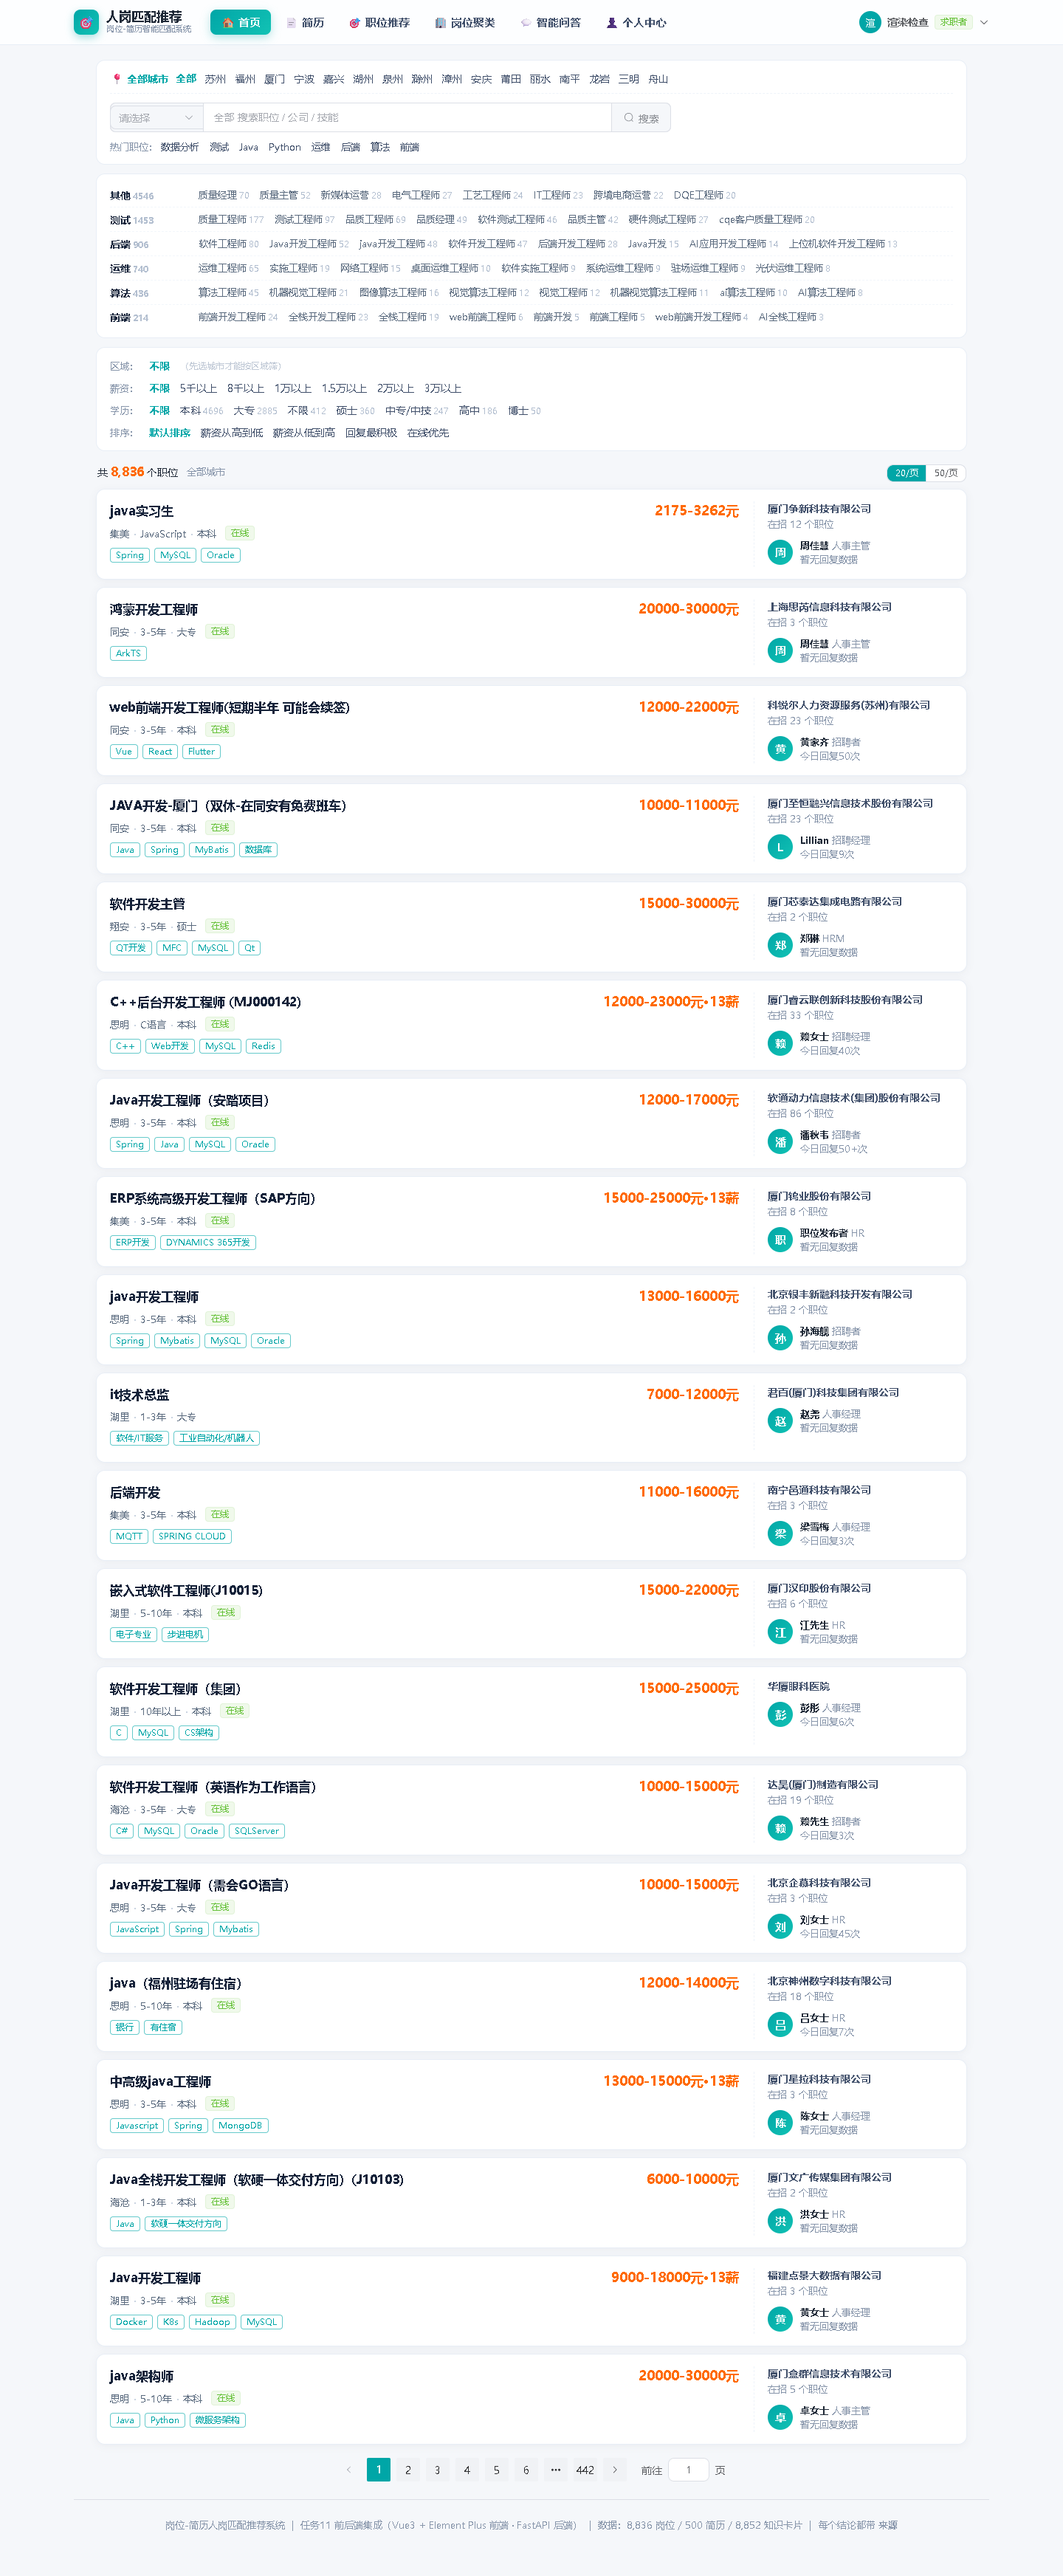
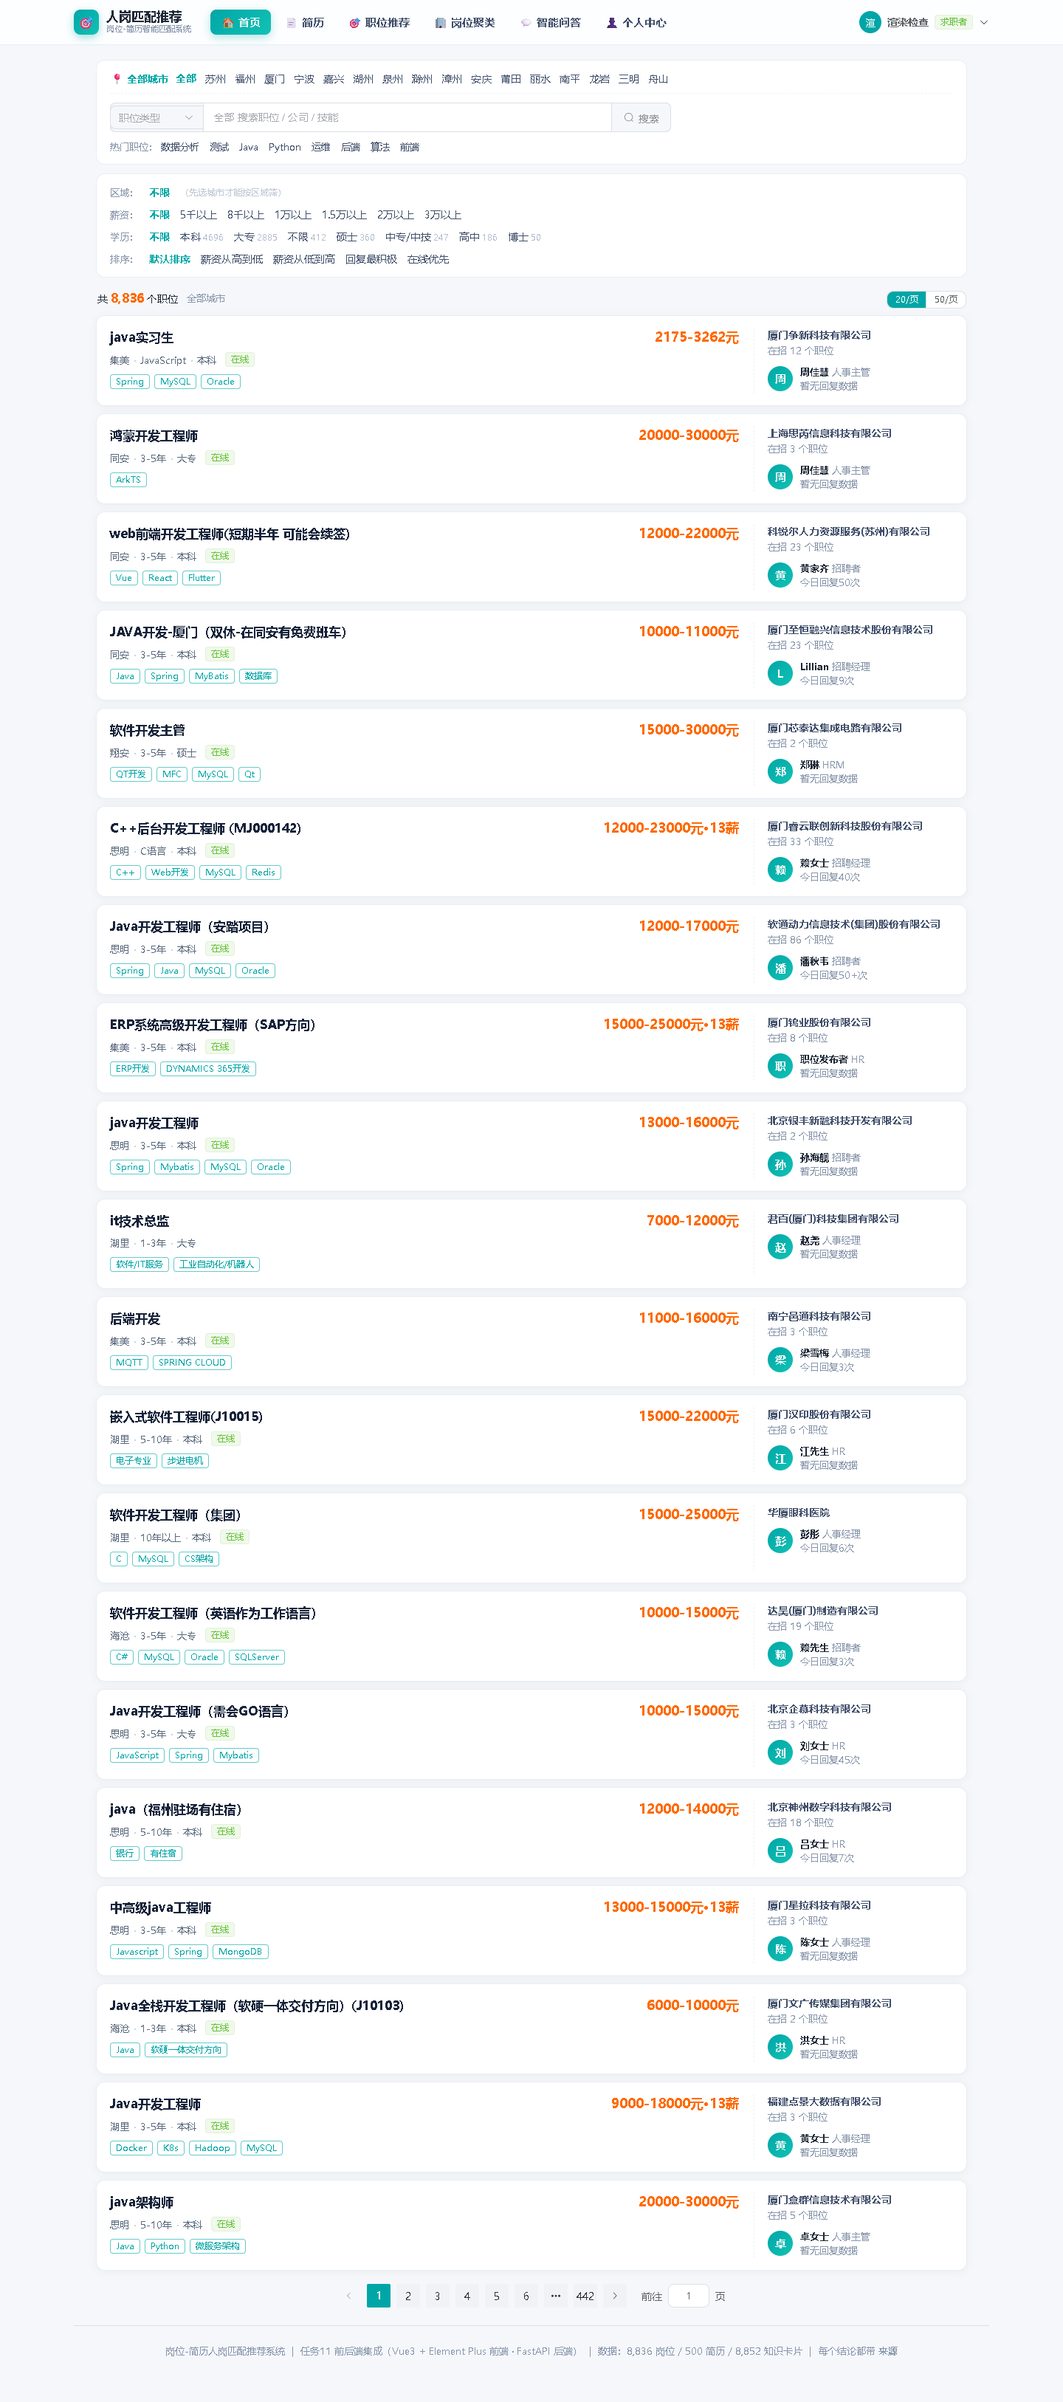
任务11: 首页删除「职位分类导航」面板（与搜索框职位类型下拉能力重复、占屏过大），同步系统设计文档 v1.5

diff --git a/web/src/views/HomeView.vue b/web/src/views/HomeView.vue
@@ -31,21 +31,7 @@
       </div>
     </div>
 
-    <!-- ② 职位分类导航（分组面板） -->
-    <div class="catpanel">
-      <div v-for="g in st.分类导航.slice(0, 6)" :key="g.大类" class="row">
-        <div class="cat">
-          <a :class="{ on: category === g.大类 }" @click="pickCat(g.大类)">
-            {{ g.大类 }}<em>{{ g.数量 }}</em></a>
-        </div>
-        <div class="subs">
-          <a v-for="s in g.子职位" :key="s.名称" @click="kw = s.名称; category = ''; search()">
-            {{ s.名称 }}<em>{{ s.数量 }}</em></a>
-        </div>
-      </div>
-    </div>
-
-    <!-- ③ 筛选栏 -->
+    <!-- ② 筛选栏 -->
     <div class="filters">
       <div class="frow">
         <span class="flb">区域：</span>
@@ -73,7 +59,7 @@
       </div>
     </div>
 
-    <!-- ④ 结果统计 -->
+    <!-- ③ 结果统计 -->
     <div class="resultbar">
       <span>共 <b class="num">{{ fmt(list.总数) }}</b> 个职位</span>
       <span class="muted">{{ city || '全部城市' }}{{ district ? ' · ' + district : '' }}{{ category ? ' · ' + category : '' }}{{ kw ? ' · ' + kw : '' }}</span>
@@ -85,7 +71,7 @@
       </span>
     </div>
 
-    <!-- ⑤ 职位列表（左：职位 / 右：公司 + 招聘者） -->
+    <!-- ④ 职位列表（左：职位 / 右：公司 + 招聘者） -->
     <div v-loading="loading" class="joblist">
       <div v-for="j in list.岗位" :key="j.岗位ID" class="jcard" @click="open(j)">
         <div class="left">
@@ -125,7 +111,7 @@
                    :total="list.总数" :page-size="size" :current-page="page"
                    class="pager" @current-change="turn" />
 
-    <!-- ⑥ 职位详情抽屉 -->
+    <!-- ⑤ 职位详情抽屉 -->
     <el-drawer v-model="drawer" size="46%" :title="cur?.岗位名称 || ''">
       <template v-if="cur">
         <div class="dt1">
@@ -251,10 +237,6 @@ function pickCity(c: string) {
   district.value = ''
   search()
 }
-function pickCat(c: string) {
-  category.value = category.value === c ? '' : c
-  search()
-}
 function setDistrict(d: string) { district.value = d; search() }
 function setSalary(v: number) { salaryMin.value = salaryMin.value === v ? 0 : v; search() }
 function setEdu(e: string) { edu.value = edu.value === e ? '' : e; search() }
@@ -314,18 +296,8 @@ onMounted(async () => {
 .hot a { color: #41506b; margin-right: 14px; cursor: pointer; }
 .hot a:hover { color: var(--el-color-primary); }
 
-/* ---------- 分类面板 ---------- */
-.catpanel { background: #fff; border: 1px solid var(--zq-border); border-radius: 12px;
-  padding: 12px 18px; margin-top: 12px; }
-.catpanel .row { display: flex; padding: 6px 0; border-bottom: 1px dashed #f2f6fb; }
-.catpanel .row:last-child { border-bottom: none; }
-.catpanel .cat { width: 120px; flex: none; }
-.catpanel .cat a { font-weight: 700; color: #16233a; cursor: pointer; font-size: 14px; }
-.catpanel .cat a.on { color: var(--el-color-primary); }
-.catpanel .subs { display: flex; flex-wrap: wrap; gap: 4px 14px; flex: 1; }
-.catpanel .subs a { color: #5b6b7f; font-size: 13px; cursor: pointer; }
-.catpanel .subs a:hover { color: var(--el-color-primary); }
-.catpanel em, .filters em { font-style: normal; color: #b3bfd0; font-size: 11.5px; margin-left: 3px; }
+/* ---------- 筛选栏 ---------- */
+.filters em { font-style: normal; color: #b3bfd0; font-size: 11.5px; margin-left: 3px; }
 
 /* ---------- 筛选栏 ---------- */
 .filters { background: #fff; border: 1px solid var(--zq-border); border-radius: 12px;

diff --git a/docs/系统设计文档.md b/docs/系统设计文档.md
@@ -63,7 +63,7 @@
 | 特征构造 | `src/api/score_features.py` | 单对(简历,岗位) 36 维特征 + 模型推理（**任务5 模型的在线入口**） |
 | **存储层** | `src/api/db.py` | **SQLite**：用户/会话/简历/收藏/匹配历史/问答记录；口令 PBKDF2 加盐哈希 |
 | 前端 A（保底） | `src/web/app.py` | Streamlit：顶部导航 + 弹出层登录注册；五个页面；纯 HTTP 客户端 |
-| 前端 B（主秀） | `web/` | **Vue3 + Element Plus + ECharts**：Vite 构建、路由守卫、Pinia 状态、axios 拦截器；六个页面（**首页岗位列表**/简历/职位推荐/聚类/问答/个人中心）；同样**只走 HTTP**。**首页仿 BOSS直聘 城市职位列表**：顶部城市切换 + 搜索（职位类型下拉）+ 热门职位 → 职位分类导航面板（大类→子职位）→ 横排筛选（区域/薪资/学历/排序）→ 职位卡（左：职位名+橙色薪资+区县·经验·学历+技能标签；右：公司+在招数+**招聘者头像/姓名/职位/回复活跃度**）→ 分页 + 详情抽屉 |
+| 前端 B（主秀） | `web/` | **Vue3 + Element Plus + ECharts**：Vite 构建、路由守卫、Pinia 状态、axios 拦截器；六个页面（**首页岗位列表**/简历/职位推荐/聚类/问答/个人中心）；同样**只走 HTTP**。**首页仿 BOSS直聘 城市职位列表**：顶部城市切换 + 搜索（**「职位类型」下拉即岗位大类筛选**）+ 热门职位 → 横排筛选（区域/薪资/学历/排序）→ 职位卡（左：职位名+橙色薪资+区县·经验·学历+技能标签；右：公司+在招数+**招聘者头像/姓名/职位/回复活跃度**）→ 分页 + 详情抽屉 |
 | 前端主题 | `.streamlit/config.toml` | 主色/背景/字体（官方主题机制，比注入 CSS 更稳） |
 | 一键脚本 | `scripts/run_api.ps1`、`scripts/run_web.ps1` | 启后端 / 启前端 |
 | 接口测试 | `tests/test_api.py`、`tests/test_auth.py`、`tests/test_web.py`、`tests/conftest.py` | 正常/边界/异常三条路径（后端 71 项 + 前端 10 项） |
@@ -169,7 +169,12 @@ POST /api/match         →  传 resume_id
 - 工具轨迹逐步可审计（工具名 + 参数 + 结果摘要 + 来源）
 - **依赖外网**：失败返回 502 并提示检查 `.env` 的 `DEEPSEEK_API_KEY`
 
-> **首页（岗位浏览）接口补充**：`GET /api/jobs` 支持 `city` / **`district`（区县）** / `category` / `keyword` / `salary_min` / `edu` / `cluster` / `sort`；`GET /api/jobs/stats` 另返回 **`热门搜索`（来自「来源关键词」列）/ `按城市区县`（区域筛选索引）/ `分类导航`（大类→高频子职位）**，以及「招聘者」相关字段（`招聘者` / `招聘者职位` / `在线状态` / `回复文案` / `同公司岗位数`）——这些字段全部来自真实抓取数据，用于模拟 BOSS直聘 的「招聘者行」与「区域/热门职位/分类导航」筛选。
+> **首页（岗位浏览）接口补充**：`GET /api/jobs` 支持 `city` / **`district`（区县）** / `category` / `keyword` / `salary_min` / `edu` / `cluster` / `sort`；`GET /api/jobs/stats` 另返回 **`热门搜索`（来自「来源关键词」列）/ `按城市区县`（区域筛选索引）/ `分类导航`（大类→高频子职位）**，以及「招聘者」相关字段（`招聘者` / `招聘者职位` / `在线状态` / `回复文案` / `同公司岗位数`）——这些字段全部来自真实抓取数据，用于模拟 BOSS直聘 的「招聘者行」与「区域 / 热门职位」筛选。
+
+> **`分类导航` 的当前用法**：该索引（大类 → 高频子职位，仅保留数量 ≥3 的子职位）**只用于填充首页搜索框的「职位类型」下拉（大类级别）**。
+> 首页原先在筛选栏之上另有一块「职位分类导航面板」（左侧大类 + 右侧该大类全部子职位链接），已在 v1.5 按使用者反馈**整块删除**：
+> 该面板占屏高较大，而搜索框下拉已覆盖同一筛选能力，删掉后首页动线收紧为「城市 → 搜索 → 筛选 → 职位列表」。
+> **后端未改**，`/api/jobs/stats` 仍返回 `分类导航`，保留给后续「点击大类直查」等交互复用。
 
 ### 3.7 ⑥ 用户体系：注册 / 登录 / 鉴权
 
@@ -316,7 +321,8 @@ pytest -q    # 81 passed
 
 ---
 
-> 文档版本：v1.4（2026-09-16，**首页仿 BOSS直聘 城市职位列表改造**：新增区县/招聘者/回复活跃度/热门职位/分类导航等真实数据字段与筛选，`/api/jobs` 增 `district` 参数、`/api/jobs/stats` 增三类索引；测试 116 项全绿；
+> 文档版本：v1.5（2026-09-18，**首页删除「职位分类导航面板」**：面板（大类→子职位）占屏高较大且与搜索框「职位类型」下拉能力重复，按使用者反馈整块移除（模板 + 其专属样式 + 失效的 `pickCat`），首页动线收紧为「城市 → 搜索 → 热门职位 → 筛选 → 职位卡」；`/api/jobs/stats` 的 `分类导航` 索引保留供下拉使用，后端与测试未变（116 项全绿），无头渲染 6 路由 0 error；
+> v1.4（2026-09-16，**首页仿 BOSS直聘 城市职位列表改造**：新增区县/招聘者/回复活跃度/热门职位/分类导航等真实数据字段与筛选，`/api/jobs` 增 `district` 参数、`/api/jobs/stats` 增三类索引；测试 116 项全绿）；
 > v1.3：**新增 Vue3 前端（答辩主秀）**：`web/` 目录，Vue3 + Element Plus + ECharts + Pinia + Vue Router，配色参考 BOSS直聘（青绿 #00A6A7 + 薪资橙 #FF6A00）；与 Streamlit 版共用同一套 27 个接口，形成「一后端双前端」结构；已完成类型检查、构建、21 项接口联调与无头真实渲染验证（0 error）；
 > v1.2：**前端布局改版**：删除侧边栏与 Hero 横幅，改为**顶部导航**（参考 BOSS直聘/智联招聘：左上品牌、中菜单、右用户区、薪资橙色突出），测试 81 项；
 > v1.1：**新增用户体系与个人中心**：SQLite 存储层 db.py（用户/会话/简历/收藏/历史，口令 PBKDF2 加盐）、认证与角色权限接口、Streamlit 登录注册 + 个人中心页签与界面美化（主题配置 + CSS + Altair 图表），测试总数 78 项；§1/§2/§3.7/§3.8/§4.1/§6 同步）
